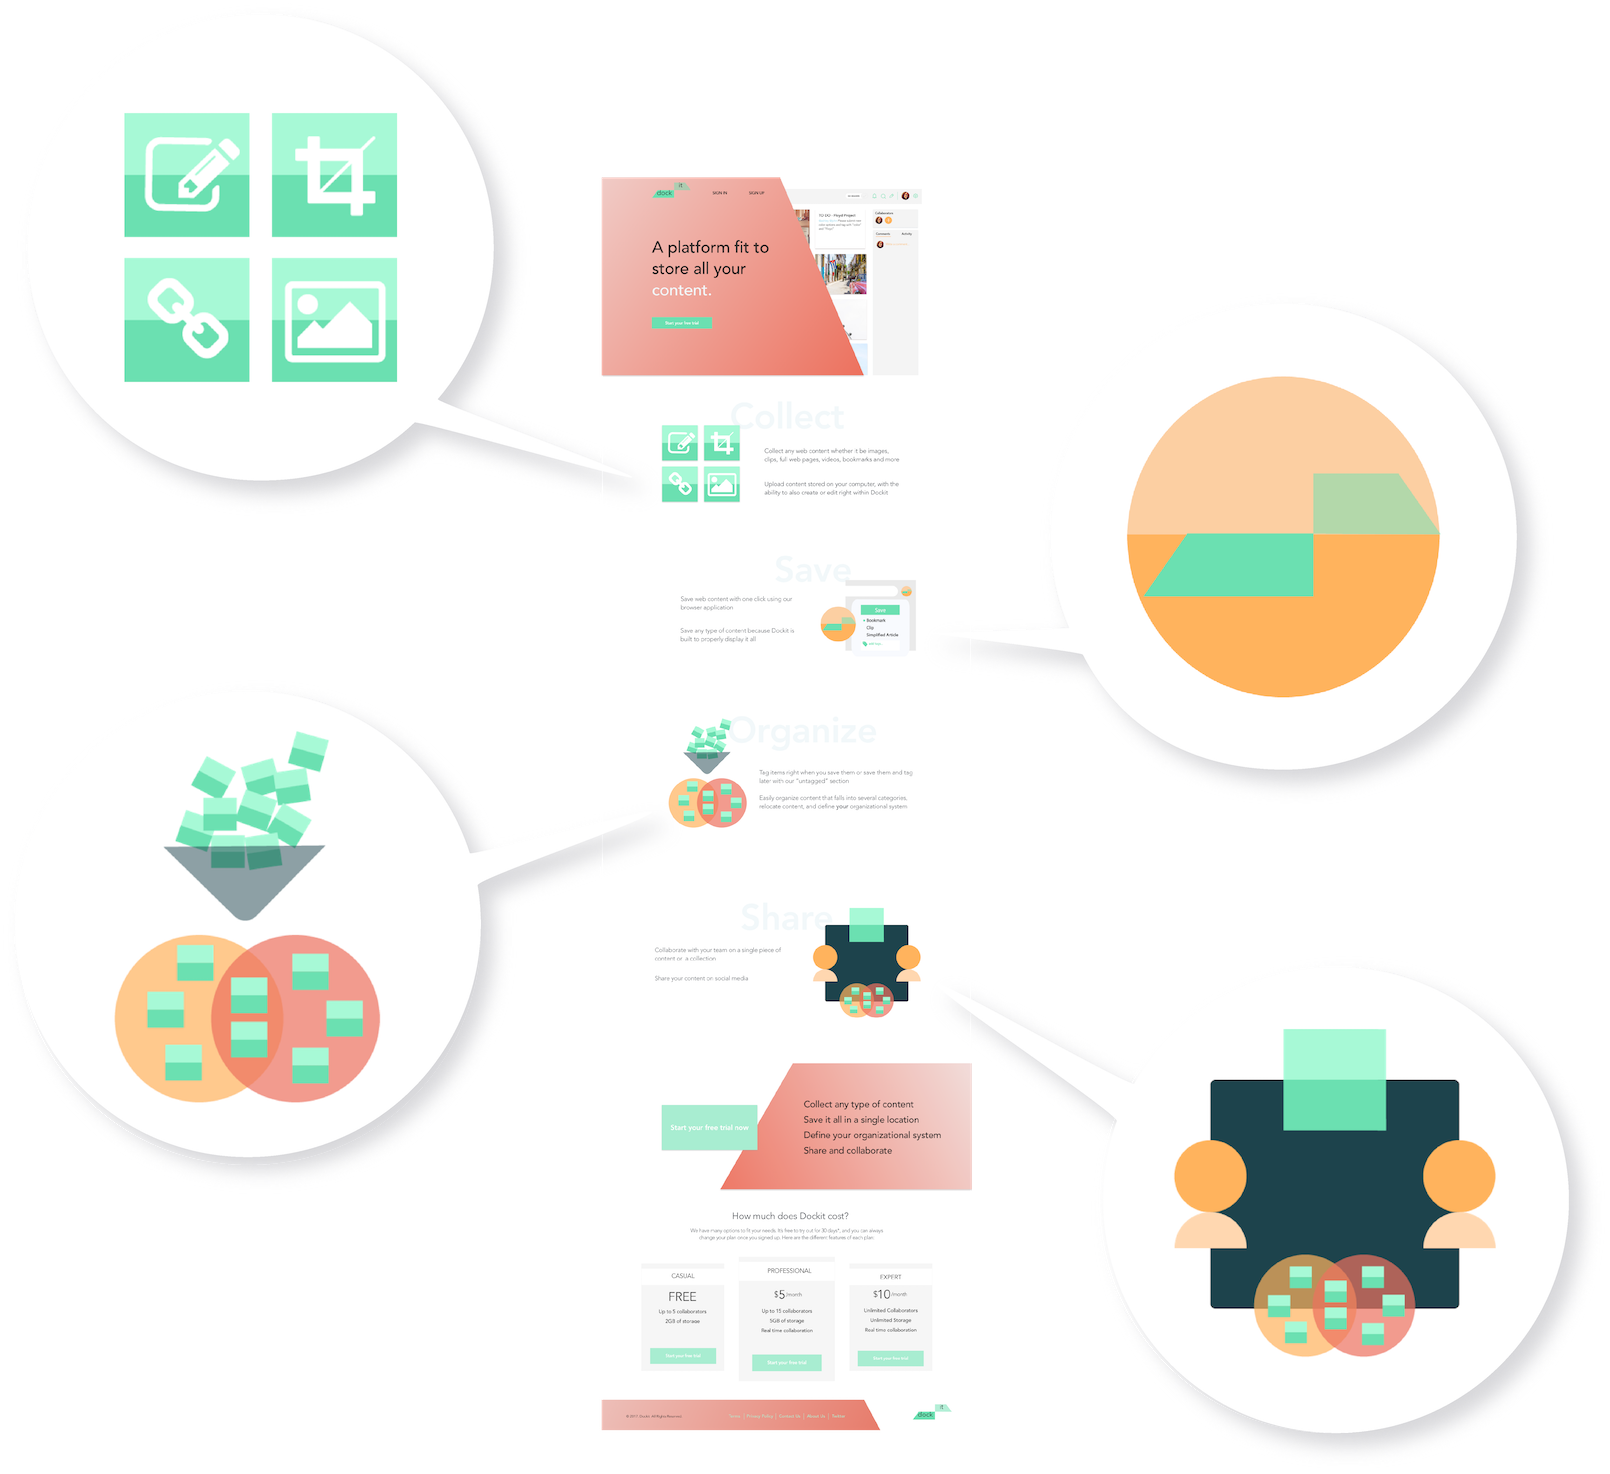
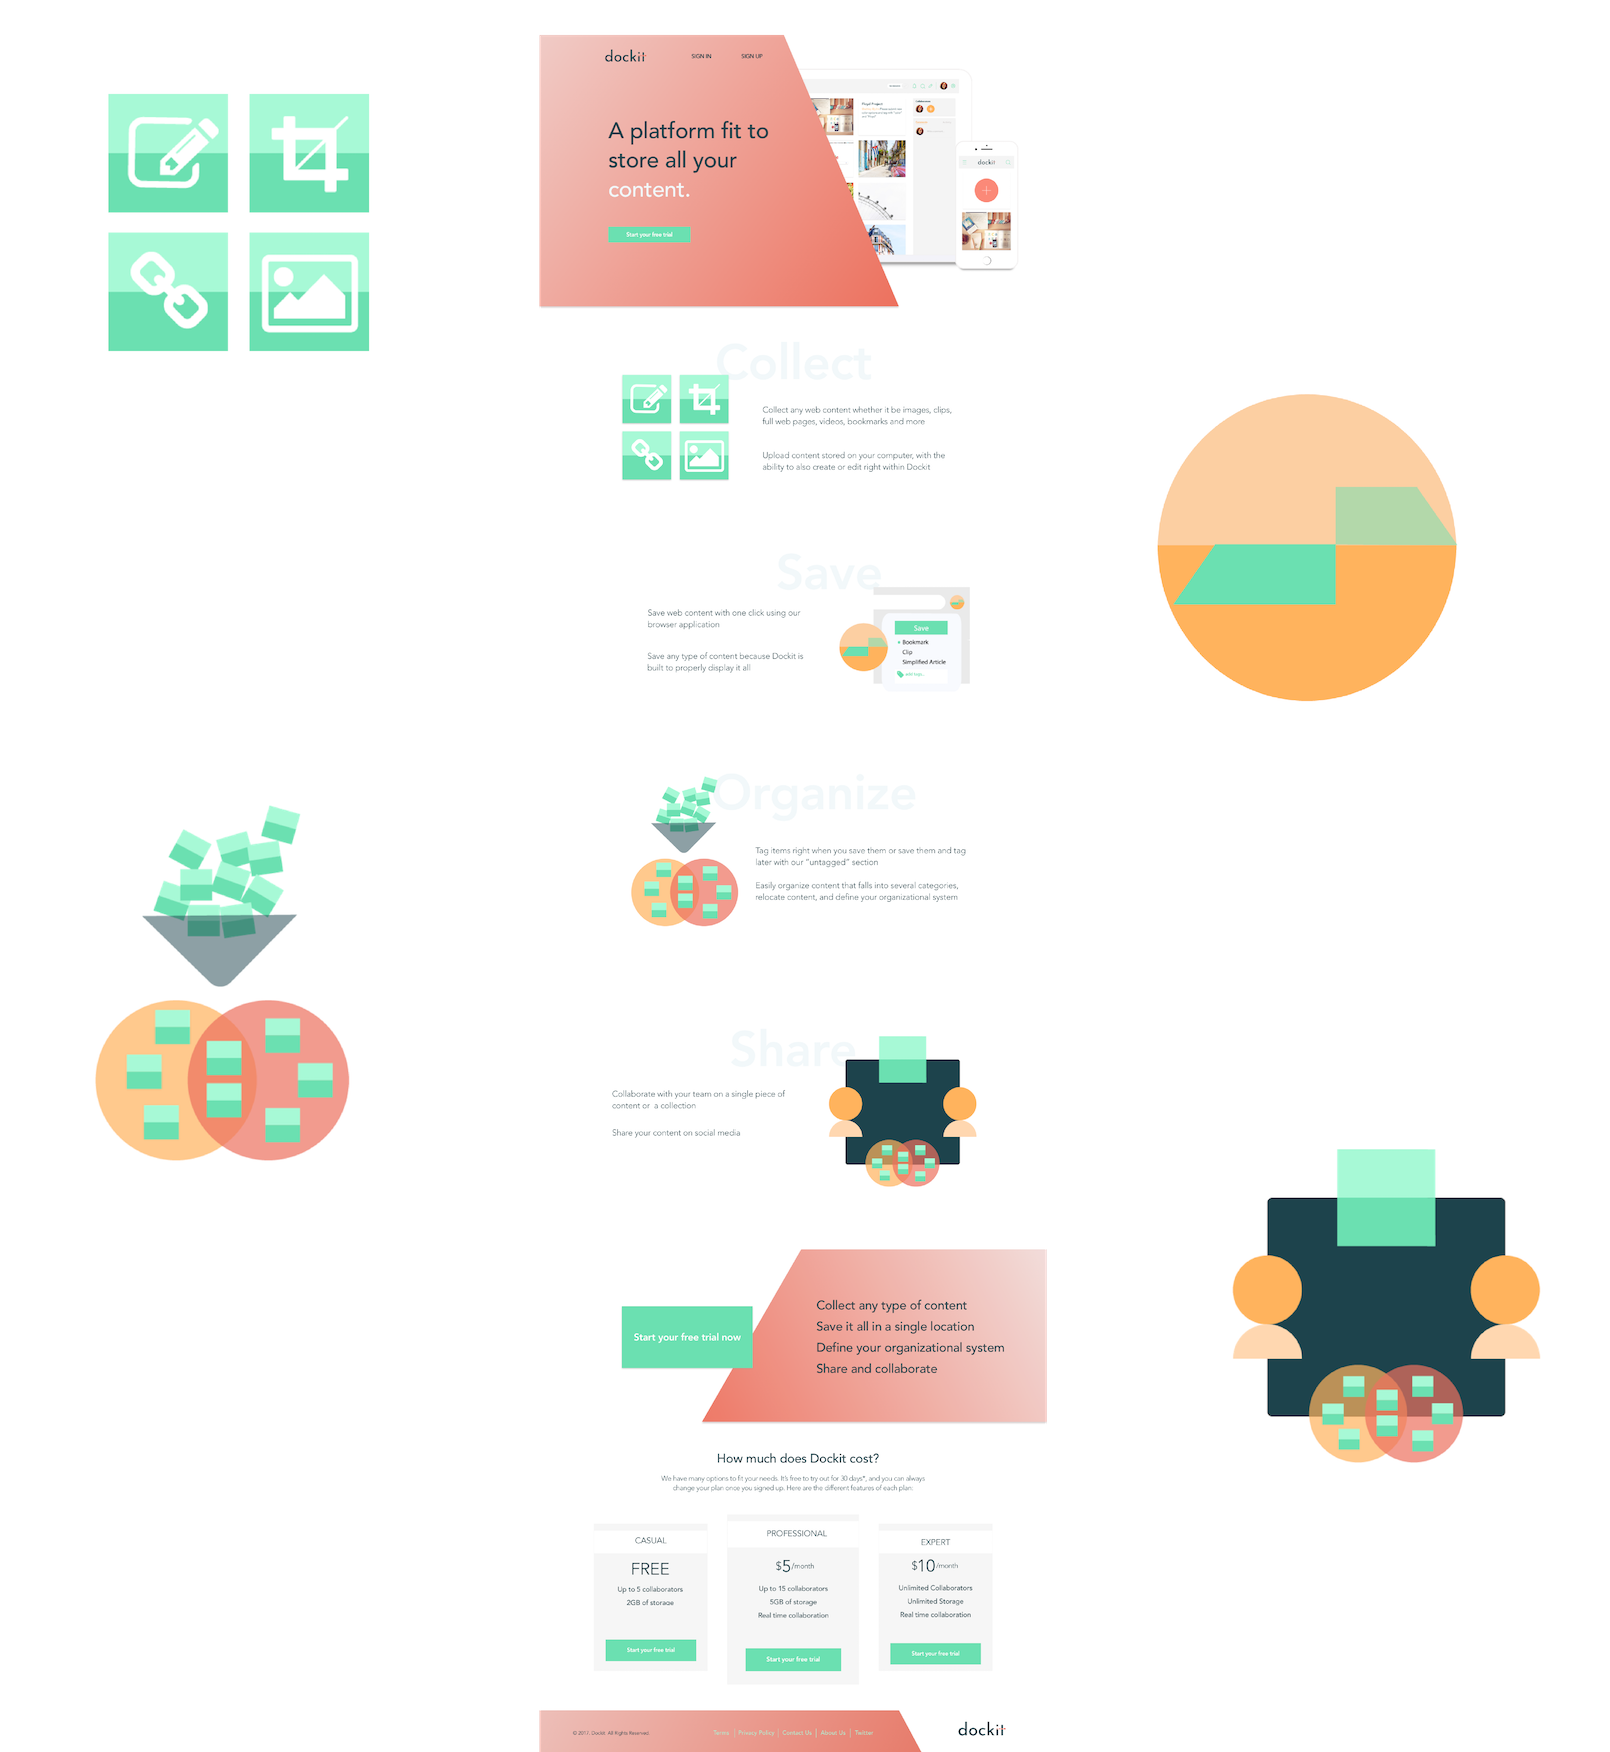
dockit updates

diff --git a/dockit.html b/dockit.html
@@ -42,10 +42,10 @@
           </div>
       </nav>
     <div class="hero-text">
-        <img class="hero-logo dockit mx-auto d-block  lg" src="images/dockit/dockit-logo.png"/>
-        <img class="hero-img mx-auto d-block  lg" src="images/dockit/dockit-desktop-mobile-stock.png"/>
+        <img class="hero-logo dockit mx-auto d-block  lg" src="images/dockit/dockit-logo-final.png"/>
+        <img class="hero-img mx-auto d-block  lg" src="images/dockit/desktop-mobile-dockit-white.png"/>
       <div class="row text-center">
-        <a href="https://invis.io/EAEVBGTX3" target="_blank" class="case btn dark lg center lime">Invision Prototype</a>
+        <a href="https://invis.io/R2GLWSRW3SM" target="_blank" class="case btn dark lg center lime">Invision Prototype</a>
       </div>
     </div>
   </div>
@@ -69,13 +69,13 @@
 
     <div class="hero-text">
       <div class="row">
-        <img class="hero-logo dockit mx-auto d-block  sm" src="images/dockit/dockit-logo.png"/>
+        <img class="hero-logo dockit mx-auto d-block  sm" src="images/dockit/dockit-logo-final.png"/>
       </div>
       <div class="row">
-        <img class="hero-img mx-auto d-block  sm" src="images/dockit/dockit-desktop-mobile-stock.png"/>
+        <img class="hero-img mx-auto d-block  sm" src="images/dockit/desktop-mobile-dockit-white.png"/>
       </div>
       <div class="row text-center">
-        <a href="https://invis.io/EAEVBGTX3" target="_blank" class="case btn lg dark center lime">Invision Prototype</a>
+        <a href="https://invis.io/R2GLWSRW3SM" target="_blank" class="case btn lg dark center lime">Invision Prototype</a>
       </div>
     </div>
   </div>
@@ -610,6 +610,8 @@
         <h3 class="lg">Name</h3>
         <p class="lg">Below you can see why exactly I settled on the name Dockit. Originally I racked my brain for words related to files, web files, ideas, inspiration, and content. I landed on the word "docket" because of it's literal relationship to "file". My thought process took off from there.</p>
         <img src="images/dockit/dockit-name.png" class="mx-auto d-block name-dockit lg"/>
+        <h3 class="lg">Final Logo</h3>
+        <img src="images/dockit/dockit-logo-final.png" class="logo lg mx-auto d-block"/>
       </div>
 
       <div class="container-fluid name dockit-c d-md-none sm">
@@ -619,25 +621,11 @@
         <div class="row">
             <a href="https://invis.io/EAEVBGTX3" target="_blank" class="case rose dark fixed btn left">PDF</a>
         </div>
+        <h3 class="sm">Final Logo</h3>
+        <img src="images/dockit/dockit-logo-final.png" class="logo sm mx-auto d-block"/>
       </div>
 
 
-      <!--logo design -->
-
-      <div class="container-fluid logo lg d-none d-md-block">
-          <h3 class="lg">Logo Design</h3>
-          <p class="lg">With the function of the Dockit revolving around storing files, the immediate jumping off point for me in terms of logo design - a plane. A flat piece of paper, an old school representation of a “file”. I played around with color, arrangement, and movement. All with planes as the foundation.
-              </br></br>The use of multi-colored, flat, abstract shapes gave my brand a unique, retro feel. I carried this on with the custom illustrations following.
-              </p>
-          <img src="images/dockit/dockit-logo-sketches.png" class="logo lg mx-auto d-block"/>
-      </div>
-      <div class="container-fluid logo sm d-md-none">
-          <h3 class="sm">Logo Design</h3>
-          <p class="sm">With the function of the Dockit revolving around storing files, the immediate jumping off point for me in terms of logo design - a plane. A flat piece of paper, an old school representation of a “file”. I played around with color, arrangement, and movement. All with planes as the foundation.
-              </br></br>The use of multi-colored, flat, abstract shapes gave my brand a unique, retro feel. I carried this on with the custom illustrations following.
-              </p>
-          <img src="images/dockit/dockit-logo-sketches.png" class="logo sm mx-auto d-block"/>
-      </div>
 
 
 
@@ -706,7 +694,7 @@
         <div class="col-sm-4 d-none d-md-block">
           <h3 class="lg case dark">Prototype</h3>
           <p class="lg proto">Using Invision, I created a clickable prototype of my high-fidelity wireframes to conduct user testing.</p>
-          <a href="https://invis.io/EAEVBGTX3" target="_blank" class="case btn lg lavender left">Invision Prototype</a>
+          <a href="https://invis.io/R2GLWSRW3SM" target="_blank" class="case btn lg lavender left">Invision Prototype</a>
         </div>
         <div class="col-sm-8 d-none d-md-block">
           <img src="images/dockit/proto-dockit.png" class="proto lg"/>
@@ -717,7 +705,7 @@
       <h3 class="sm case dark">Prototype</h3>
       <p class="proto sm">Using Invision, I created a clickable prototype of my high-fidelity wireframes to conduct user testing.</p>
       <img src="images/dockit/proto-dockit.png" class="proto sm"/>
-      <a href="https://invis.io/EAEVBGTX3" target="_blank" class="case btn lg lavender left">Invision Prototype</a>
+      <a href="https://invis.io/R2GLWSRW3SM" target="_blank" class="case btn lg lavender left">Invision Prototype</a>
     </div>
 
     <!-- testing header -->

diff --git a/css/case.css b/css/case.css
@@ -1082,7 +1082,6 @@ img.menu{
 div.yellow{
   /* Rectangle 11: */
   background: #FFFFFF;
-  box-shadow: 2px 14px 14px 0 rgba(197,184,184,0.50);
 }
 
 div.yellow.testing.lg{
